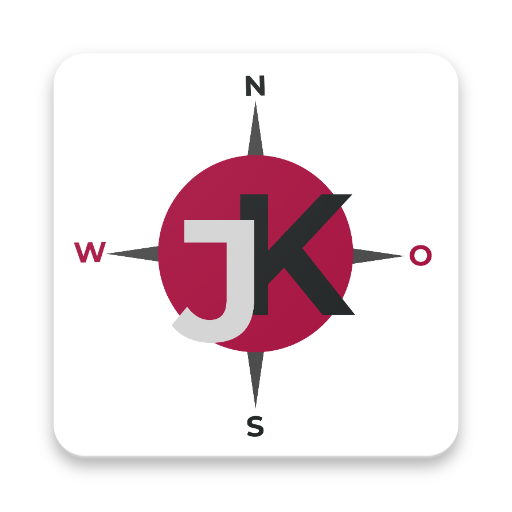
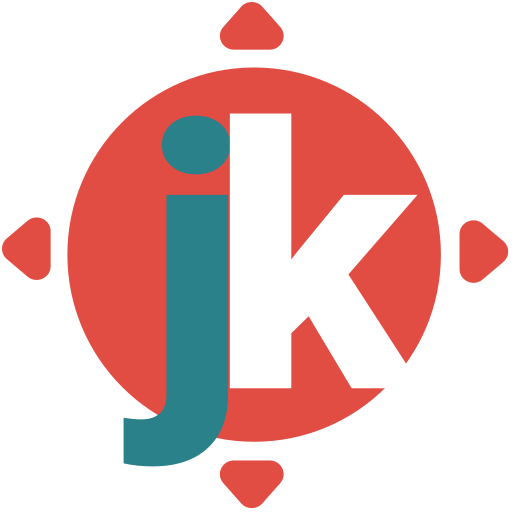
Update branding

diff --git a/src/views/brand.scss b/src/views/brand.scss
@@ -11,6 +11,39 @@ $color-darker: scale-color(white, $lightness: -54%);
 $color-darkest: scale-color(white, $lightness: -87%);
 
 $theme-palette-primary: (
+  50: #fbeae8,
+  100: #f6c9c7,
+  200: #f0a6a1,
+  300: #ea827b,
+  400: #e6675f,
+  500: #e14c43,
+  600: #dd453d,
+  700: #d93c34,
+  800: #d5332c,
+  900: #cd241e,
+  A100: #ffffff,
+  A200: #ffd2d0,
+  A400: #ffa09d,
+  A700: #ff8784,
+  contrast: (
+    50: $color-darkest,
+    100: $color-darkest,
+    200: $color-darkest,
+    300: $color-darkest,
+    400: $color-darkest,
+    500: $color-lightest,
+    600: $color-lightest,
+    700: $color-lightest,
+    800: $color-lightest,
+    900: $color-lightest,
+    A100: $color-darkest,
+    A200: $color-darkest,
+    A400: $color-darkest,
+    A700: $color-darkest,
+  )
+);
+
+$theme-palette-accent: (
   50: #e5f0f1,
   100: #bfd9dc,
   200: #95c0c4,
@@ -30,39 +63,6 @@ $theme-palette-primary: (
     100: $color-darkest,
     200: $color-darkest,
     300: $color-darkest,
-    400: $color-lightest,
-    500: $color-lightest,
-    600: $color-lightest,
-    700: $color-lightest,
-    800: $color-lightest,
-    900: $color-lightest,
-    A100: $color-darkest,
-    A200: $color-darkest,
-    A400: $color-darkest,
-    A700: $color-darkest,
-  )
-);
-
-$theme-palette-accent: (
-  50: #fbeae8,
-  100: #f6c9c7,
-  200: #f0a6a1,
-  300: #ea827b,
-  400: #e6675f,
-  500: #e14c43,
-  600: #dd453d,
-  700: #d93c34,
-  800: #d5332c,
-  900: #cd241e,
-  A100: #ffffff,
-  A200: #ffd2d0,
-  A400: #ffa09d,
-  A700: #ff8784,
-  contrast: (
-    50: $color-darkest,
-    100: $color-darkest,
-    200: $color-darkest,
-    300: $color-lightest,
     400: $color-lightest,
     500: $color-lightest,
     600: $color-lightest,

diff --git a/src/views/index.html b/src/views/index.html
@@ -4,7 +4,7 @@
     <meta charset="utf-8">
     <meta http-equiv="cache-control" content="max-age=86400; must-revalidate">
     <meta http-equiv="Content-Security-Policy" content="
-      connect-src 'self' https://jugendkompass.wooportal.app https://*.googleapis.com;
+      connect-src 'self' https://jugendkompass-din.de https://*.googleapis.com;
       default-src gap: 'self' 'unsafe-inline';
       img-src data: 'self'
         https://*.tile.openstreetmap.org
